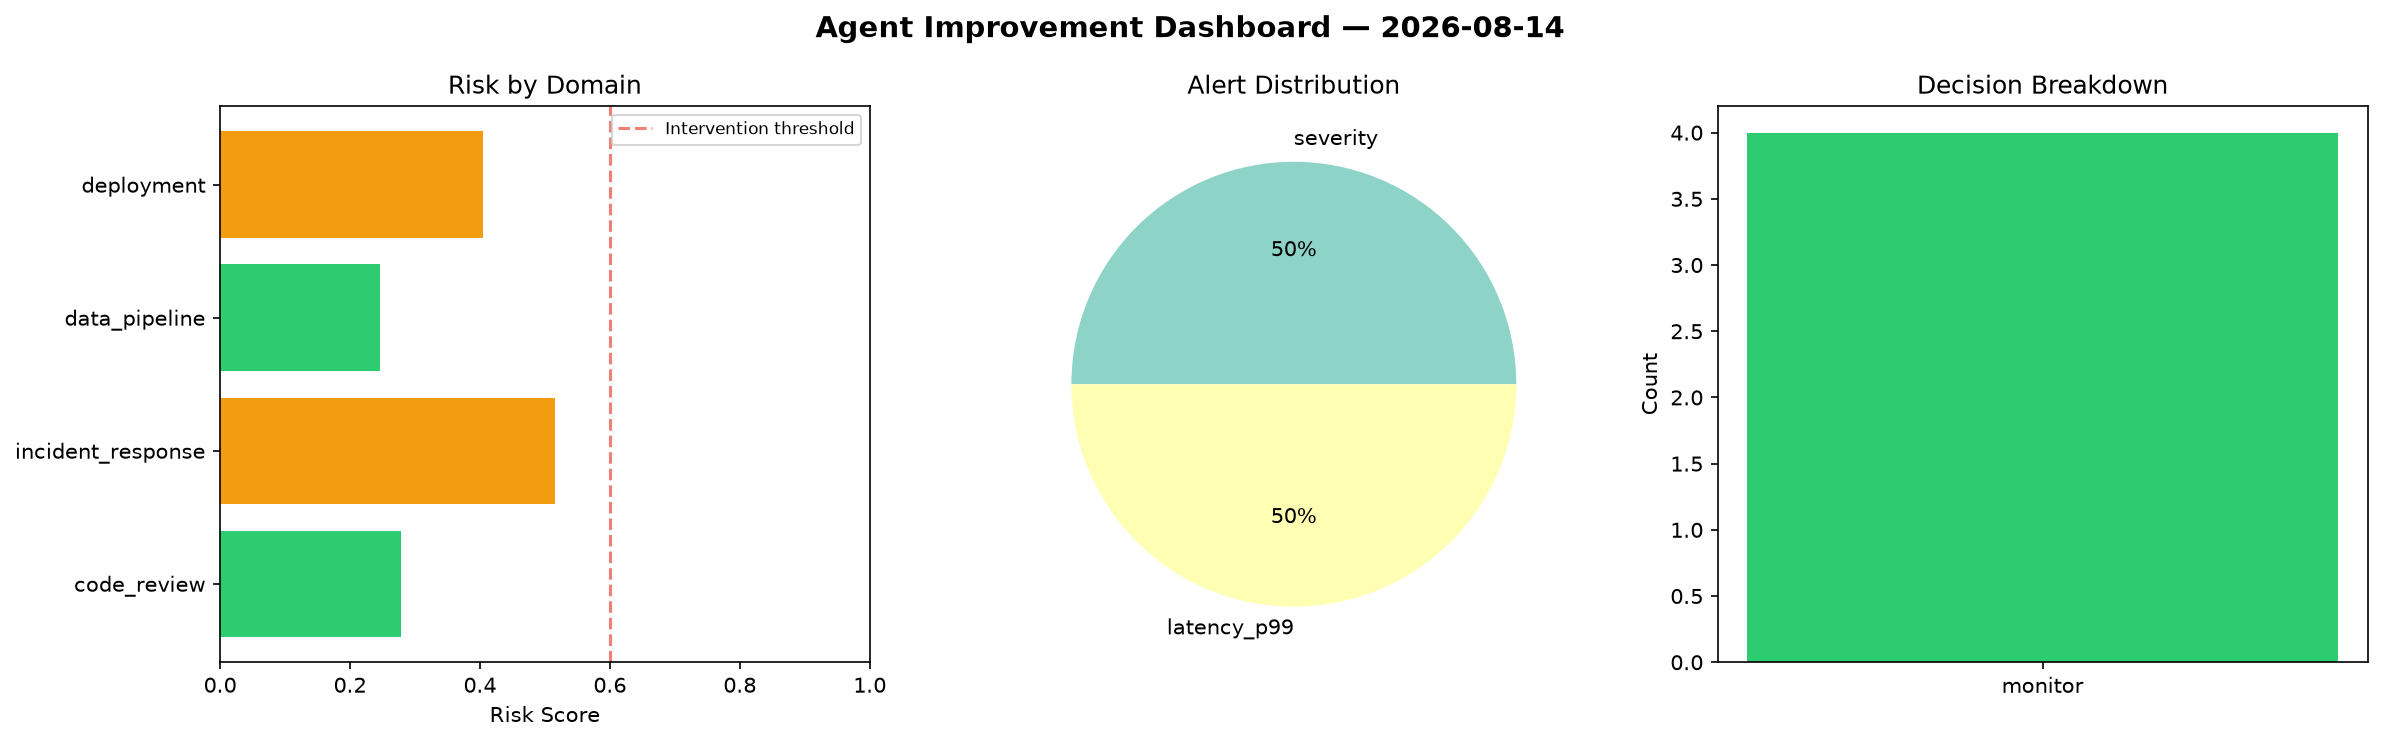
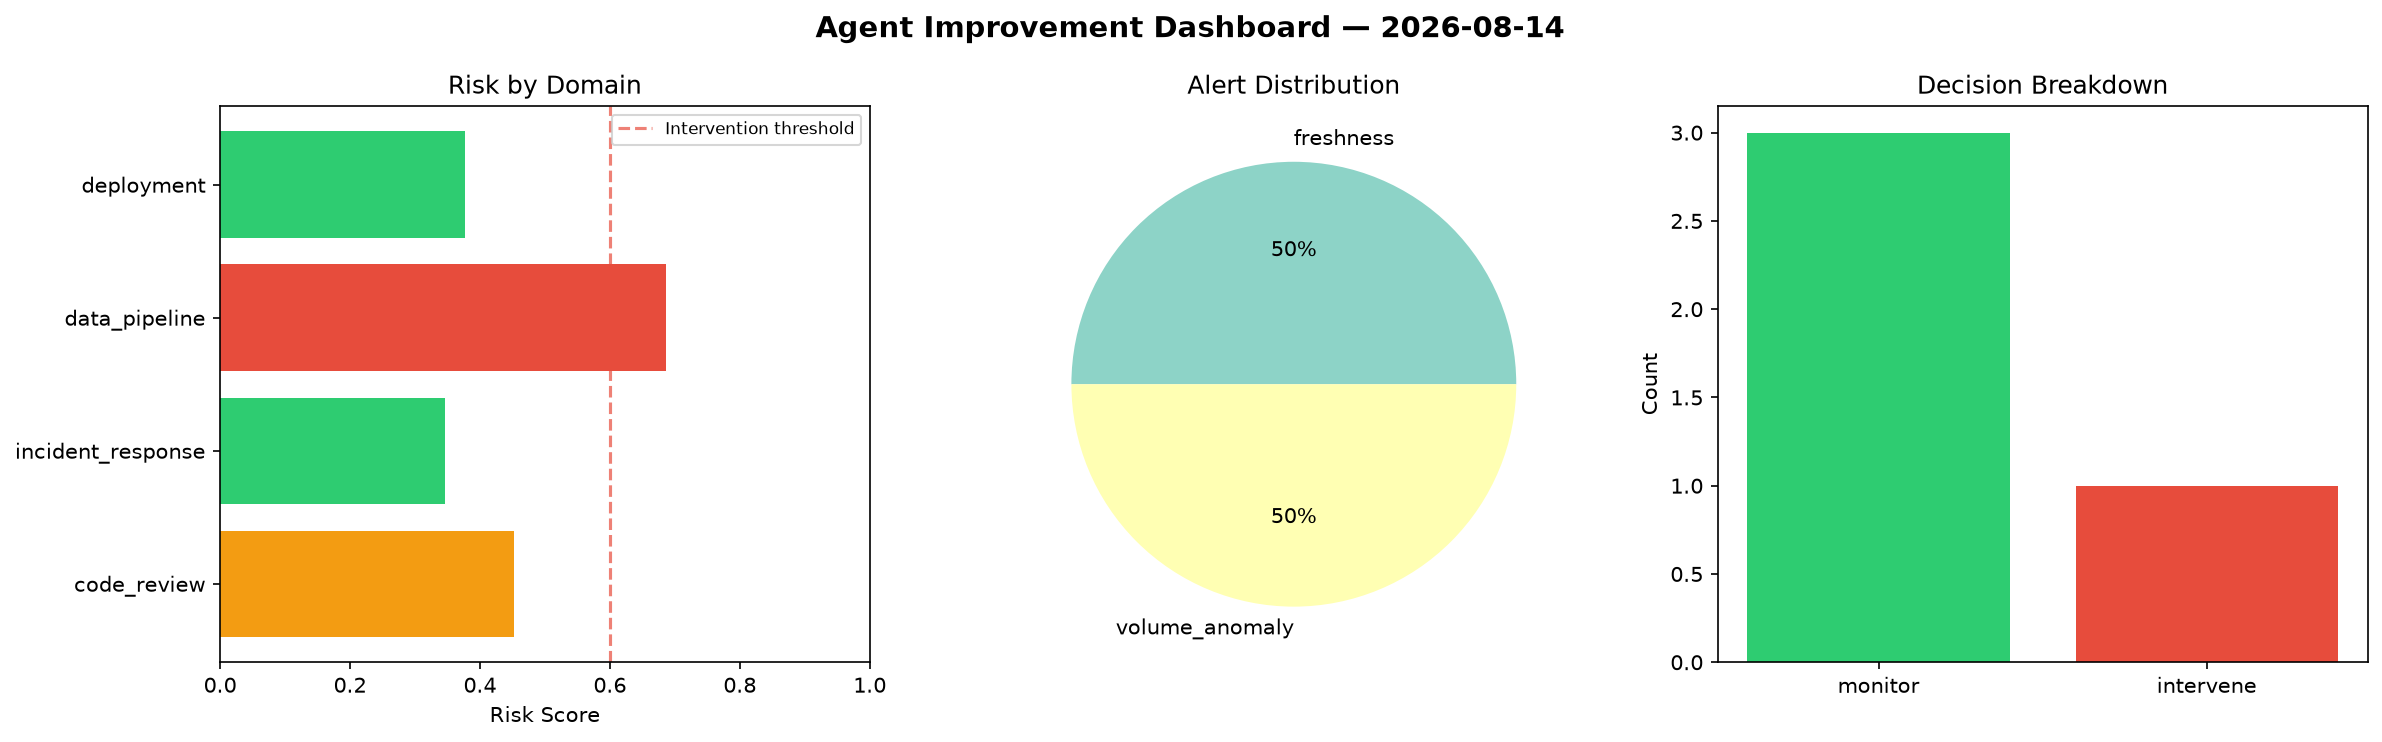
agent-improvement: daily cycle 2026-08-14T09:19

diff --git a/logs/2026-08-14.md b/logs/2026-08-14.md
@@ -1,6 +1,6 @@
 # Agent Improvement Report — 2026-08-14
 
-**Cycle ID:** `f89060ee` | **Avg Risk:** 0.361 | **Interventions:** 0/4
+**Cycle ID:** `33d292e7` | **Avg Risk:** 0.4655 | **Interventions:** 1/4
 
 ![Dashboard](2026-08-14_dashboard.png)
 
@@ -10,18 +10,18 @@
 
 | Domain | Risk Score | Decision | Alerts |
 |--------|-----------|----------|--------|
-| code_review | 0.2779 | monitor | none |
-| incident_response | 0.5156 | monitor | severity |
-| data_pipeline | 0.2455 | monitor | none |
-| deployment | 0.4051 | monitor | latency_p99 |
+| code_review | 0.4522 | monitor | none |
+| incident_response | 0.3469 | monitor | none |
+| data_pipeline | 0.6856 | intervene | freshness, volume_anomaly |
+| deployment | 0.3774 | monitor | none |
 
 ## Delta vs Yesterday
 
 | Domain | Today | Yesterday | Change |
 |--------|-------|-----------|--------|
-| code_review | 0.2779 | 0.327 | 📉 -15.0% |
-| incident_response | 0.5156 | 0.3926 | 📈 31.3% |
-| data_pipeline | 0.2455 | 0.4911 | 📉 -50.0% |
-| deployment | 0.4051 | 0.6973 | 📉 -41.9% |
+| code_review | 0.4522 | 0.327 | 📈 38.3% |
+| incident_response | 0.3469 | 0.3926 | 📉 -11.6% |
+| data_pipeline | 0.6856 | 0.4911 | 📈 39.6% |
+| deployment | 0.3774 | 0.6973 | 📉 -45.9% |
 
-**Refinement:** `{'adjustment': 'tighten_thresholds', 'trend': 'degrading', 'window': 4}`
+**Refinement:** `{'adjustment': 'maintain', 'trend': 'improving', 'window': 4}`
